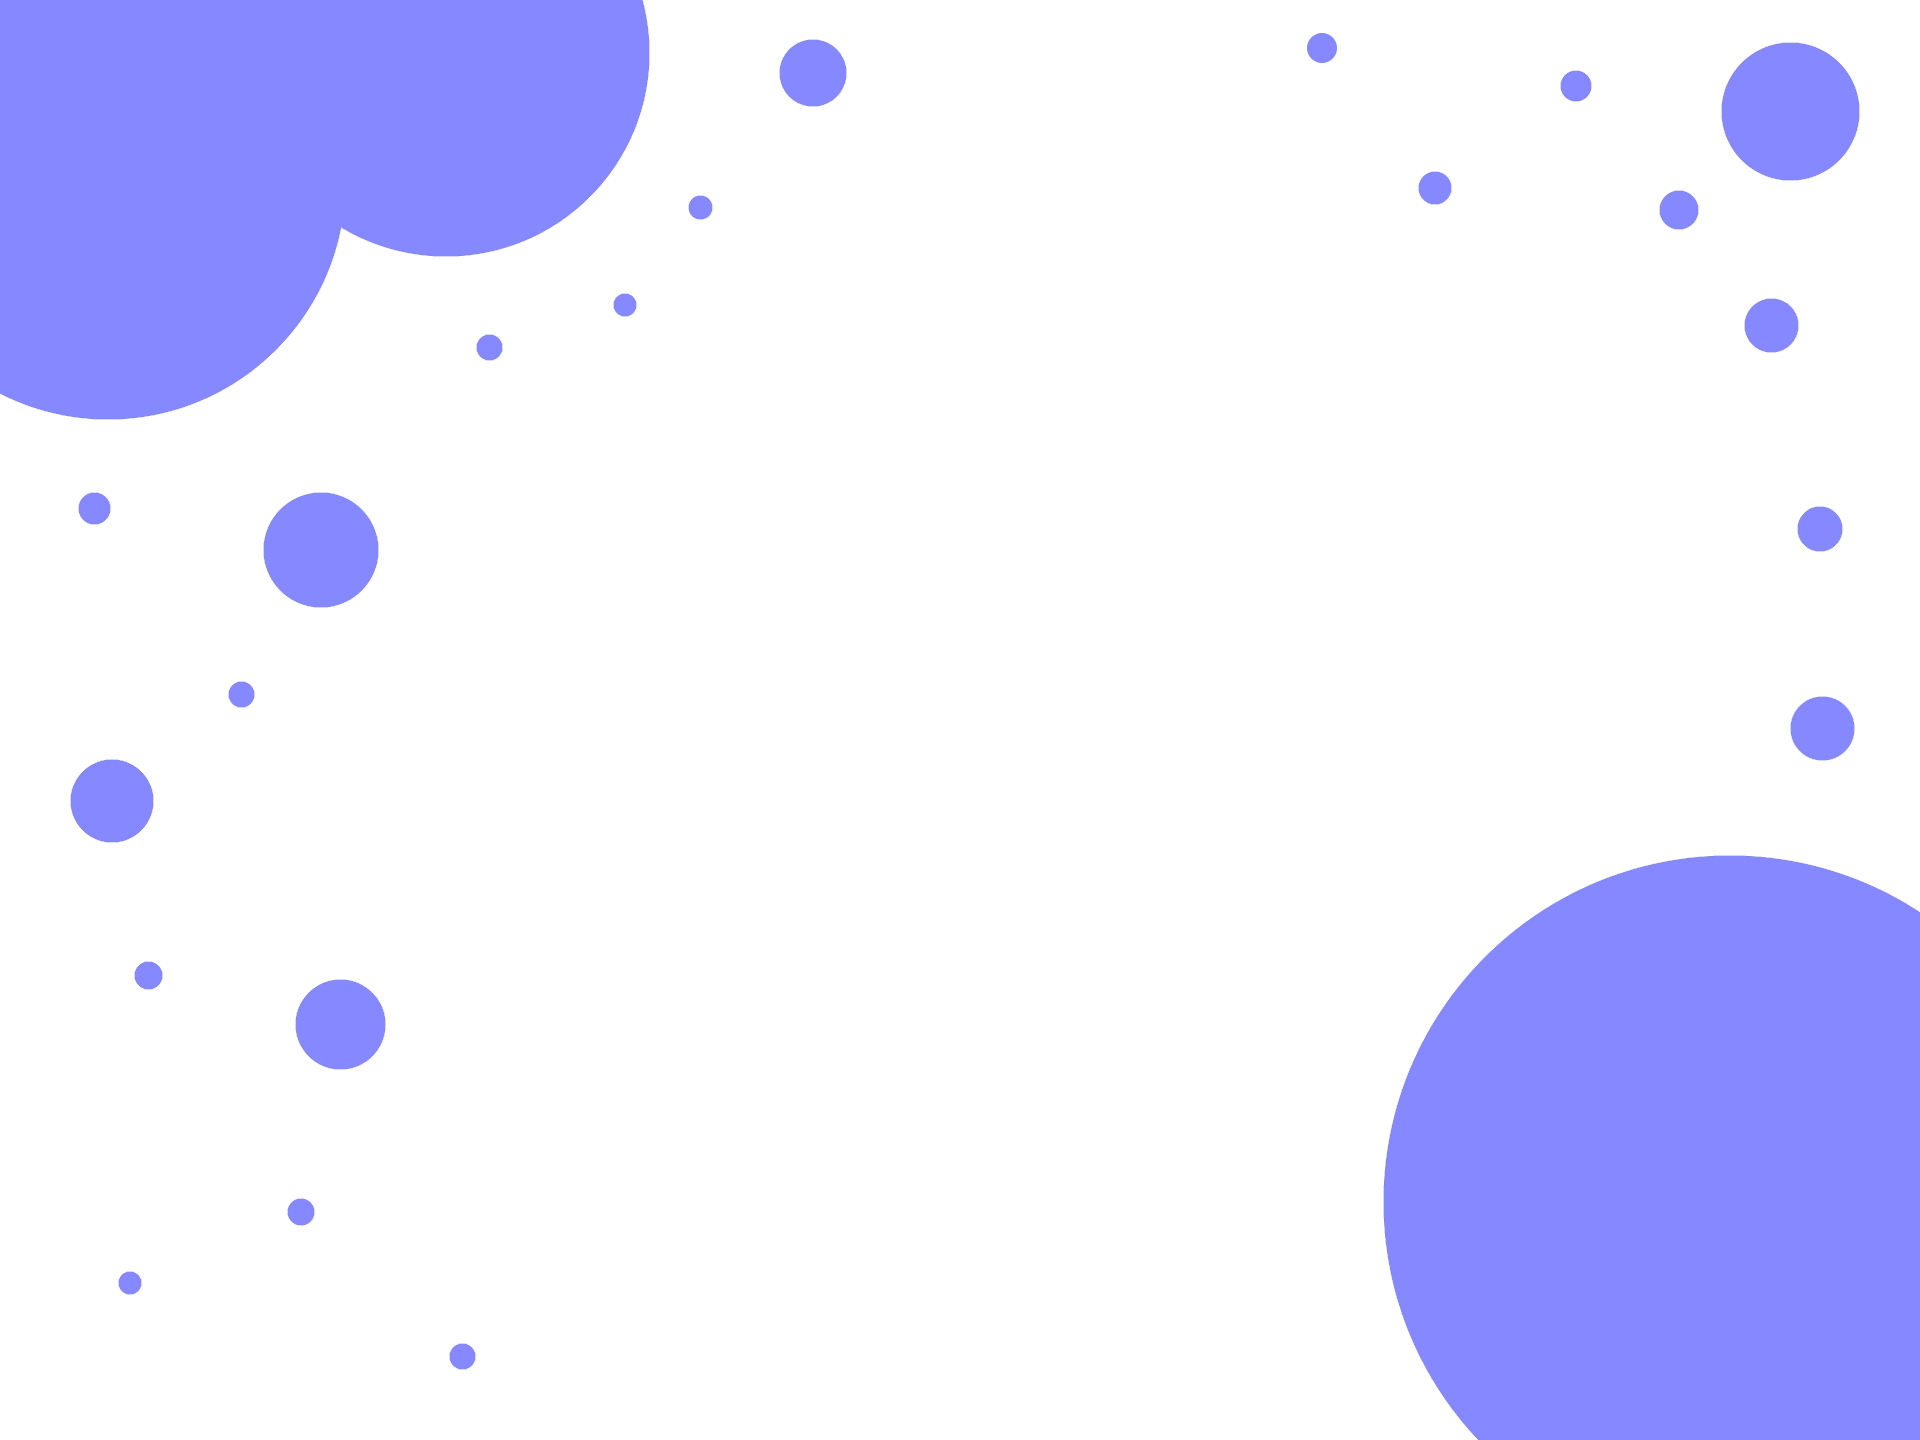
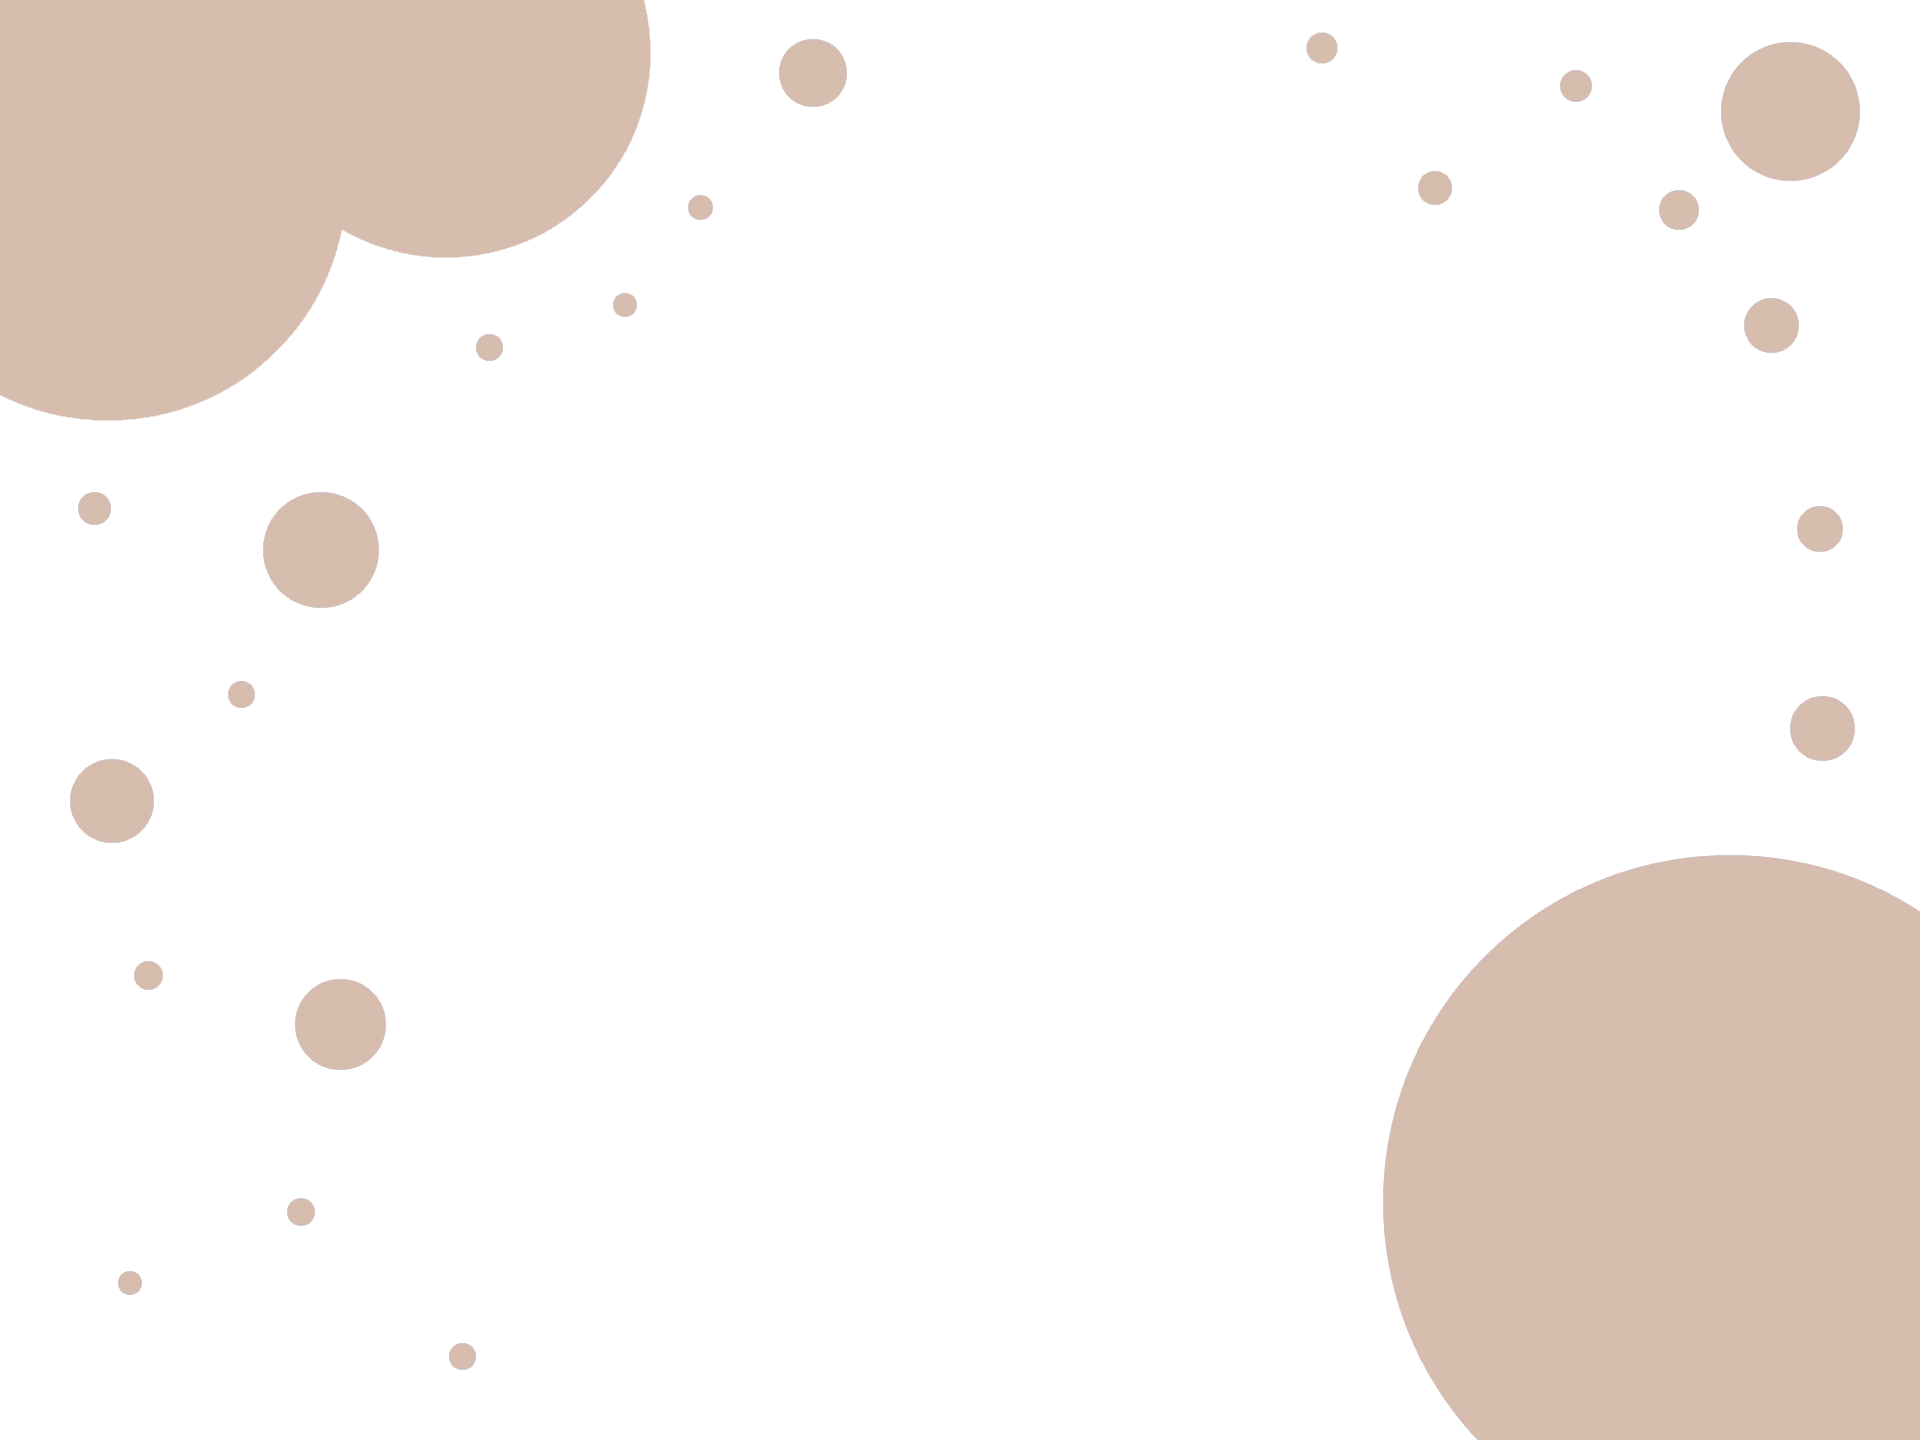
color scheme changes, moved sidenav, removed navbar

diff --git a/css/index.css b/css/index.css
@@ -1,16 +1,157 @@
-:root {
-    --shadow-default:
-        0 1px 3px rgba(0, 0, 0, 0.08),
-        0 4px 12px rgba(0, 0, 0, 0.12);
+/*
+  common-base.css — Base/reset and common utilities
+  Purpose: remove extra whitespace around the page, provide sensible defaults
+  and small utility classes every site benefits from.
+*/
 
-    --side-nav-transition:
-        opacity 250ms ease,
-        transform 250ms ease;
-
-    --border-default: 1.5px solid #111827;
-    --default-black: #111827;
-    --grey-nav: #3f3f46;
+/* 1) Basic reset to remove extra white space around the site */
+html, body {
+  height: 100%;
+  margin: 0;
+  padding: 0;
+  scroll-behavior: smooth;
+  -webkit-font-smoothing: antialiased;
+  -moz-osx-font-smoothing: grayscale;
 }
+
+:root {
+  box-sizing: border-box;
+  --max-content-width: 1200px;
+  --content-padding: 1rem;
+  --bg: #edede9;
+  --text: #262626;
+  --muted: #d6ccc2;
+  --accent: #d5bdaf;
+  --accent-2: #e3d5ca;
+  --shadow-default:
+      0 1px 3px rgba(0, 0, 0, 0.08),
+      0 4px 12px rgba(0, 0, 0, 0.12);
+  --side-nav-transition:
+      opacity 250ms ease,
+      transform 250ms ease;
+  --border-default: 1.5px solid #111827;
+}
+
+*, *::before, *::after { box-sizing: inherit; }
+
+/* 2) Document-level sensible defaults */
+body {
+  font-family: Inter, system-ui, -apple-system, "Segoe UI", Roboto, "Helvetica Neue", Arial;
+  line-height: 1.5;
+  color: var(--text);
+  background: var(--bg);
+  min-height: 100%;
+  -webkit-text-size-adjust: 100%;
+}
+
+/* Remove default spacing for common elements */
+h1,h2,h3,h4,h5,h6,p,ul,ol,figure,blockquote,dl,dd { margin: 0; padding: 0; }
+
+/* Images and media scale to container */
+img, picture, video, svg { display: block; max-width: 100%; height: auto; }
+
+/* Links */
+a { color: inherit; text-decoration: none; }
+a:focus, a:hover { text-decoration: underline; }
+
+/* Headings default sizes */
+h1 { font-size: 2rem; }
+h2 { font-size: 1.5rem; }
+h3 { font-size: 1.25rem; }
+
+/* 3) Layout helpers */
+.container {
+  width: 100%;
+  max-width: var(--max-content-width);
+  margin-left: auto;
+  margin-right: auto;
+  padding-left: var(--content-padding);
+  padding-right: var(--content-padding);
+}
+
+.stack > * + * { margin-top: 1rem; }
+.stack-sm > * + * { margin-top: 0.5rem; }
+
+.row {
+  display: flex;
+  flex-wrap: wrap;
+  gap: 1rem;
+}
+
+.col { flex: 1 1 0%; }
+
+.grid { display: grid; gap: 1rem; grid-template-columns: repeat(auto-fit, minmax(200px, 1fr)); }
+
+/* 4) Buttons and inputs */
+.btn {
+  display: inline-flex;
+  align-items: center;
+  justify-content: center;
+  padding: 0.5rem 1rem;
+  border: none;
+  background: var(--accent);
+  color: #fff;
+  border-radius: 6px;
+  cursor: pointer;
+  font-weight: 600;
+}
+.btn:disabled { opacity: 0.6; cursor: not-allowed; }
+
+.form-input, .form-textarea, select {
+  width: 100%;
+  padding: 0.5rem;
+  border: 1px solid #e5e7eb;
+  border-radius: 6px;
+  background: #fff;
+}
+
+/* 5) Accessibility helpers */
+.sr-only {
+  position: absolute !important;
+  width: 1px; height: 1px;
+  padding: 0; margin: -1px;
+  overflow: hidden; clip: rect(0,0,0,0);
+  white-space: nowrap; border: 0;
+}
+
+.visually-hidden:not(:focus):not(:active) {
+  position: absolute !important; clip: rect(1px, 1px, 1px, 1px);
+  width: 1px; height: 1px; overflow: hidden;
+}
+
+/* 6) Small utilities */
+.text-center { text-align: center; }
+.muted { color: var(--muted); }
+.lead { font-size: 1.125rem; color: var(--muted); }
+
+/* 7) Media queries */
+@media (min-width: 768px) {
+  h1 { font-size: 2.5rem; }
+  h2 { font-size: 2rem; }
+}
+
+/* ========================================
+   Page-specific styles
+   ======================================== */
+
+/* Navbar logo */
+/* .navbar-logo {
+  height: 3rem;
+  width: auto;
+  margin-right: 2rem;
+} */
+
+/* Floating decal/watermark */
+/*.floating-decal {
+  position: fixed;
+  bottom: 2rem;
+  right: 2rem;
+  width: 150px;
+  height: 150px;
+  opacity: 0.15;
+  pointer-events: none;
+  z-index: 10;
+} */
 
 a {
     color: inherit;
@@ -23,10 +164,6 @@ section {
     height: 100vh;
 }
 
-section:first-child {
-    height: calc(100vh - 4rem);
-}
-
 .no-list-style {
     list-style-type: none;
     padding: 0;
@@ -37,49 +174,18 @@ section:first-child {
     box-shadow: var(--shadow-default);
 }
 
-
-#navbar {
-    top: 0;
-    left: 0;
-    width: 100%;
-    height: 4rem;
-    z-index: 1000;
-    background-color: var(--grey-nav);
-}
-
-#navbar.scrolled {
-    position: fixed;
-    top: 0;
-    left: 0;
-    width: 100%;
-
-    /* visual changes */
-    background-color: var(--grey-nav);
-    box-shadow: var(--shadow-default);
-    transform: translateY(0);
-}
-
-#navbar>ul {
-    display: flex;
-    flex-direction: row;
-    justify-content: center;
-    align-items: center;
-    height: inherit;
-    width: inherit;
-    gap: 5rem;
-    font-weight: bold;
-}
-
 #side-navbar {
     position: fixed;
     top: 0;
-    left: 0;
-    width: 120px;
+    right: 0;
+    width: 125px;
     height: 100vh;
 
     opacity: 0;
-    transform: translateX(-16px);
+    transform: translateX(16px);
     pointer-events: none;
+
+    /* background-color: yellow; */
 
     transition: var(--side-nav-transition);
     z-index: 999;
@@ -101,8 +207,21 @@ section:first-child {
     height: inherit;
     width: inherit;
     gap: 3rem;
+    font-size: 1.25rem;
     font-weight: bold;
     background: transparent;
+}
+
+#side-navbar>ul>li {
+    transition: transform 200ms ease;
+}
+
+#side-navbar>ul>li:hover {
+    transform: scale(1.15);
+}
+
+#side-navbar>ul>li>a:hover {
+    text-decoration: none;
 }
 
 #hero {

diff --git a/js/index.js b/js/index.js
@@ -6,25 +6,13 @@ const sideNavbar = document.getElementById('side-navbar');
 
 const observer = new IntersectionObserver((entries) => {
     const entry = entries[0];
-    if (entry.isIntersecting) {
+    const sideNavbarVisible = sideNavbar.classList.contains('visible');
+    if (entry.isIntersecting && sideNavbarVisible) {
         sideNavbar.classList.remove('visible');
-    } else if (!entry.isIntersecting) {
+    } else if (!entry.isIntersecting && !sideNavbarVisible) {
         sideNavbar.classList.add('visible');
     }
-}, { threshold: 0.1 });
-
-
-function onScroll() {
-    // if (!isScrolled && window.scrollY > THRESHOLD) {
-    //     isScrolled = true;
-    //     navbar.classList.add("scrolled");
-    // } else if (isScrolled && window.scrollY < THRESHOLD - 10) {
-    //     isScrolled = false;
-    //     navbar.classList.remove("scrolled");
-    // }
-
-
-}
+}, { threshold: 0.5 });
 
 observer.observe(heroSection);
 window.addEventListener('scroll', onScroll, { passive: true });

diff --git a/index.html b/index.html
@@ -6,21 +6,11 @@
     <title>Homepage</title>
     <meta name="description" content="Personal portfolio homepage" />
 
-    <link rel="stylesheet" href="css/common.css">
-    <link rel="stylesheet" href="css/index.css" />
+    <link rel="stylesheet" href="css/index.css">
 
     <script src="js/index.js" defer></script>
 </head>
 <body>
-    <div id="navbar">
-        <ul class="no-list-style">
-            <li><a href="#hero">Home</a></li>
-            <li><a href="#about">About</a></li>
-            <li><a href="#projects">Projects</a></li>
-            <li><a href="#contact">Contact</a></li>
-        </ul>
-    </div>
-
     <div id="side-navbar">
         <ul class="no-list-style">
             <li><a href="#hero">Home</a></li>
